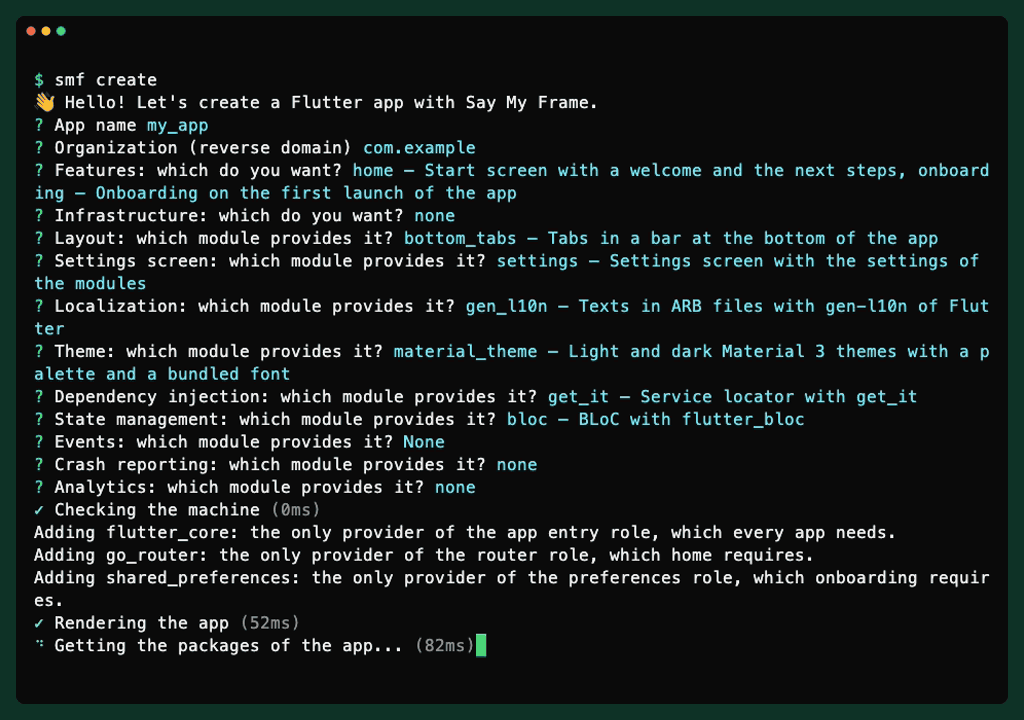
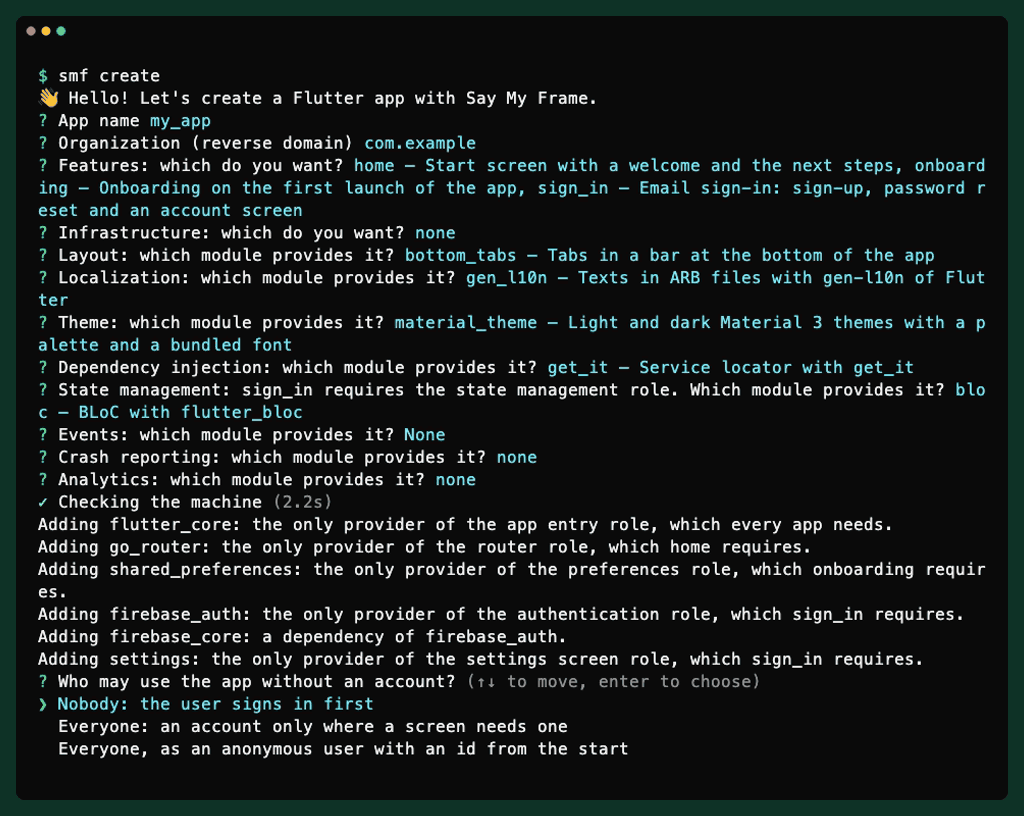
docs(cli): show the run of smf create with sign-in and the screens of sign-in in the READMEs and on pub.dev
The recording and the picture of the app are those of this release, in
demo/0.5/ of the documentation site. The two screenshots of the package
on pub.dev follow them.

Changed region(s): [[0.0312, 0.0611, 0.9688, 0.9472], [0.0312, 0.9778, 0.9688, 1.0], [0.0312, 0.0306, 0.0625, 0.0611]]

diff --git a/README.md b/README.md
@@ -6,13 +6,15 @@
 
 # SMF Flutter CLI
 
-Say My Frame (SMF) generates Flutter apps from independent modules. You pick what the app needs, such as a router, tabs at the bottom, dependency injection, a state manager, Firebase or a start screen, and `smf create` generates a Flutter project in which these parts already work together. The project does not depend on SMF at run time, so its code is yours from the first commit.
+Say My Frame (SMF) generates Flutter apps from independent modules. You pick what the app needs, such as a router, tabs at the bottom, sign-in, dependency injection, a state manager, Firebase or a start screen, and `smf create` generates a Flutter project in which these parts already work together. The project does not depend on SMF at run time, so its code is yours from the first commit.
 
-![smf create in a terminal: it asks for the app name and the modules, adds go_router and shared_preferences, which the chosen modules need, and generates a Flutter app with an onboarding, a start screen, a settings screen, tabs at the bottom, a theme, two languages, get_it and BLoC](https://doc.saymyframe.com/demo/0.4/smf_create.gif)
+![smf create in a terminal: it asks for the app name and the modules, adds the modules that the chosen ones need, such as go_router, the settings screen and Firebase Authentication, asks who may use the app without an account, and generates a Flutter app with an onboarding, a start screen, sign-in, tabs at the bottom, a theme, two languages, get_it and BLoC](https://doc.saymyframe.com/demo/0.5/smf_create.gif)
 
-With the modules `onboarding`, `home`, `settings`, `bottom_tabs`, `material_theme` and `gen_l10n`, the app opens on an onboarding and has a start screen, a settings screen with a theme mode and a language, and a light and a dark theme:
+With the modules `onboarding`, `sign_in`, `home`, `bottom_tabs`, `material_theme` and `gen_l10n`, the app opens on an onboarding and then asks the user to sign in. It has a start screen, an account screen, a settings screen with a theme mode and a language, and a light and a dark theme:
 
-![The app that smf create generates, on a phone: the onboarding, the start screen, the settings screen, and the start screen in the dark theme and in Ukrainian](https://doc.saymyframe.com/demo/app_look.png)
+![The app that smf create generates, on a phone: the onboarding, the sign-in, the start screen, and the account screen in the dark theme and in Ukrainian](https://doc.saymyframe.com/demo/0.5/app_look.png)
+
+`sign_in` needs a Firebase project for its accounts. The other modules of this app need none.
 
 SMF generates apps for Flutter 3.44 or newer and Dart 3.12 or newer. It is tested on macOS, Linux and Windows.
 

diff --git a/packages/smf_flutter_cli/README.md b/packages/smf_flutter_cli/README.md
@@ -1,12 +1,14 @@
 # SMF Flutter CLI
 
-`smf` generates Flutter apps from independent modules. You pick what the app needs, such as a router, tabs at the bottom, dependency injection, a state manager, Firebase or a start screen, and `smf create` generates a Flutter project in which these parts already work together. The project does not depend on SMF at run time, so its code is yours from the first commit.
+`smf` generates Flutter apps from independent modules. You pick what the app needs, such as a router, tabs at the bottom, sign-in, dependency injection, a state manager, Firebase or a start screen, and `smf create` generates a Flutter project in which these parts already work together. The project does not depend on SMF at run time, so its code is yours from the first commit.
 
-![smf create in a terminal: it asks for the app name and the modules, adds go_router and shared_preferences, which the chosen modules need, and generates a Flutter app with an onboarding, a start screen, a settings screen, tabs at the bottom, a theme, two languages, get_it and BLoC](https://doc.saymyframe.com/demo/0.4/smf_create.gif)
+![smf create in a terminal: it asks for the app name and the modules, adds the modules that the chosen ones need, such as go_router, the settings screen and Firebase Authentication, asks who may use the app without an account, and generates a Flutter app with an onboarding, a start screen, sign-in, tabs at the bottom, a theme, two languages, get_it and BLoC](https://doc.saymyframe.com/demo/0.5/smf_create.gif)
 
-With the modules `onboarding`, `home`, `settings`, `bottom_tabs`, `material_theme` and `gen_l10n`, the app opens on an onboarding and has a start screen, a settings screen with a theme mode and a language, and a light and a dark theme:
+With the modules `onboarding`, `sign_in`, `home`, `bottom_tabs`, `material_theme` and `gen_l10n`, the app opens on an onboarding and then asks the user to sign in. It has a start screen, an account screen, a settings screen with a theme mode and a language, and a light and a dark theme:
 
-![The app that smf create generates, on a phone: the onboarding, the start screen, the settings screen, and the start screen in the dark theme and in Ukrainian](https://doc.saymyframe.com/demo/app_look.png)
+![The app that smf create generates, on a phone: the onboarding, the sign-in, the start screen, and the account screen in the dark theme and in Ukrainian](https://doc.saymyframe.com/demo/0.5/app_look.png)
+
+`sign_in` needs a Firebase project for its accounts. The other modules of this app need none.
 
 SMF generates apps for Flutter 3.44 or newer and Dart 3.12 or newer. It is tested on macOS, Linux and Windows.
 
